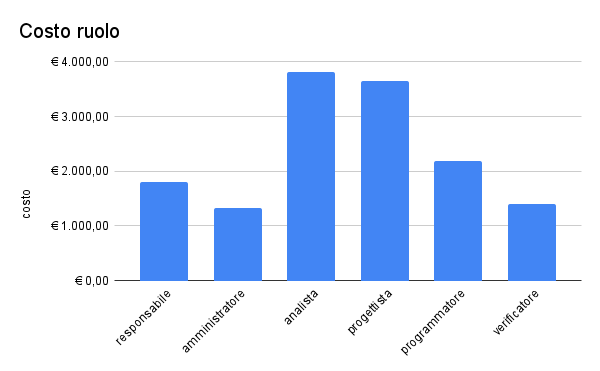
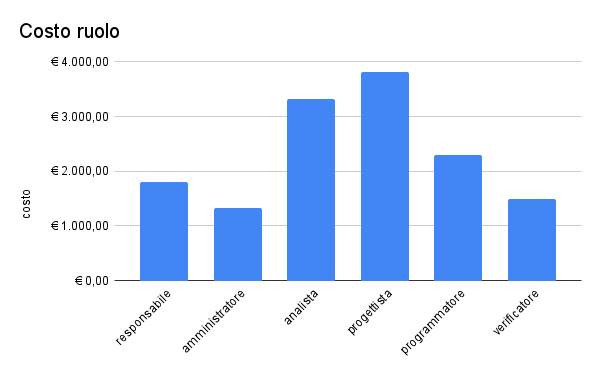
Aggiunte tabelle costi e riordinato il documento

diff --git a/assegnazione_appalti/preventivo_costi/contenuti/contenuto.tex b/assegnazione_appalti/preventivo_costi/contenuti/contenuto.tex
@@ -10,47 +10,54 @@ Viene inoltre applicato un \textbf{10\%} di coefficente di rendimento nel conteg
     \begin{tabularx}{10cm}{X |l|l}          
         \textbf{Ruolo} & \textbf{Costo orario} & \textbf{Ore per ruolo}\\
         \hline
-
-        Responsabile & §30 & 63\\
-        Amministratore & §20 & 69\\
-        Analista & §25 & 159\\
-        Progettista & §25 & 152\\
+        Responsabile & §30 & 60\\
+        Amministratore & §20 & 67\\
+        Analista & §25 & 133\\
+        Progettista & §25 & 153\\
         Programmatore & §15 & 152\\
-        Verificatore & §15 & 97\\
+        Verificatore & §15 & 100\\
         \hline
-        \textbf{Totale} & §14197,75 & ore 692
+        \textbf{Totale} & §14064,75 & 665
     \end{tabularx}
 \end{center}
 
 La distribuzione per ruolo è quindi come segue.
 
-\begin{center}
-\includegraphics[width=0.8\textwidth]{immagini/Costo ruolo.png}
-\end{center}
+\begin{minipage}[c][][c]{0.49\linewidth}  
+\includegraphics[width=\textwidth]{immagini/Costo ruolo.png}
+\end{minipage}
+\begin{minipage}[c][][c]{0.49\linewidth}  
+\includegraphics[width=\textwidth]{immagini/Ore per ruolo.png}
+\end{minipage}
 
 Ogni ruolo avrà inoltre rotazione costante e sistematica ma le ore preventivate per ogni studente si attestano a questi valori:
 
 \begin{center}
-    \begin{tabularx}{13cm}{X |l|l|l|l|l|l| X}          
+    \begin{tabularx}{13cm}{X |l l l l l l| X}          
         \textbf{Nome} & \textbf{re} & \textbf{am} & \textbf{an} & \textbf{pro} & \textbf{prog} & \textbf{ve}& \textbf{Totale}\\
         \hline
-        Alessandro &  & & & & & & \\
-        Davide & & & & & & &\\
-        Giorgio & && & & & &\\
-        Luca & && & & & &\\
-        Mattia &  & & & & & &\\
-        Michele &  & & & & & &\\
-        Samuel &  & & & & & &\\
+        Alessandro &9&8&18&24&20&16&95 \\
+        Davide &9&10&18&22&23&13&95\\
+        Giorgio &8&9&20&22&23&13&95\\
+        Luca &9&10&18&22&20&16&95\\
+        Mattia &8&10&20&21&22&14&95\\
+        Michele &9&10&19&21&22&14&95\\
+        Samuel &8&10&20&21&22&14&95\\
         \hline
-        \textbf{Totale} & §14197,75 & ore 69& & & & &
+        \textbf{Totale} &60&67&133&153&152&100&665
     \end{tabularx}
 \end{center}
 
-\section{Considerazioni sui ruoli}
+\section{Ruoli e considerazioni}
+
+
+
 \section{Costi}
 
-Il preventivo di realizzazione ammonta quindi a §14197,75 arrotondabili per eccesso a \textbf{§14200,00}
+Il preventivo per la realizzazione del progetto ammonta quindi a §14064,75 che arrotondiamo per eccesso e tenendo a mente possibili imprevisti a \textbf{§14100,00}
 
 \section{Consegna}
 
-La previsione di consegna chiavi in mano si attesta oggi al \textbf{06 marzo 2023}
+La previsione di consegna viene calcolando una media di \textbf{12} ore settimanali dedicate al progetto. Risultano quindi 9 settimane per terminare lo stesso.
+
+Tenendo quindi conto anche di possibili imprevisti, giorni non lavorativi e cause di forza maggiore non ad ora preventivabili, la previsione di consegna chiavi in mano si attesta oggi al \textbf{06 marzo 2023}

diff --git a/assegnazione_appalti/preventivo_costi/preventivo-costi.tex b/assegnazione_appalti/preventivo_costi/preventivo-costi.tex
@@ -21,9 +21,9 @@
 
     \includegraphics[width=0.25\textwidth]{immagini/logo_13.png}
     
-    \Large 13-group
+    \Large SWEasabi
 
-    \small 13gruppo@gmail.com
+    \small sweasabi@gmail.com
         
     \vspace{2cm}
 

diff --git a/assegnazione_appalti/preventivo_costi/config.tex b/assegnazione_appalti/preventivo_costi/config.tex
@@ -11,7 +11,7 @@
 \usepackage{titlesec}
 \usepackage{listings}
 \usepackage{color}
-\renewcommand{\contentsname}{Indice}
+\usepackage{graphicx}
 
 \lstset{ % General setup for the package
     basicstyle=\small\sffamily,
